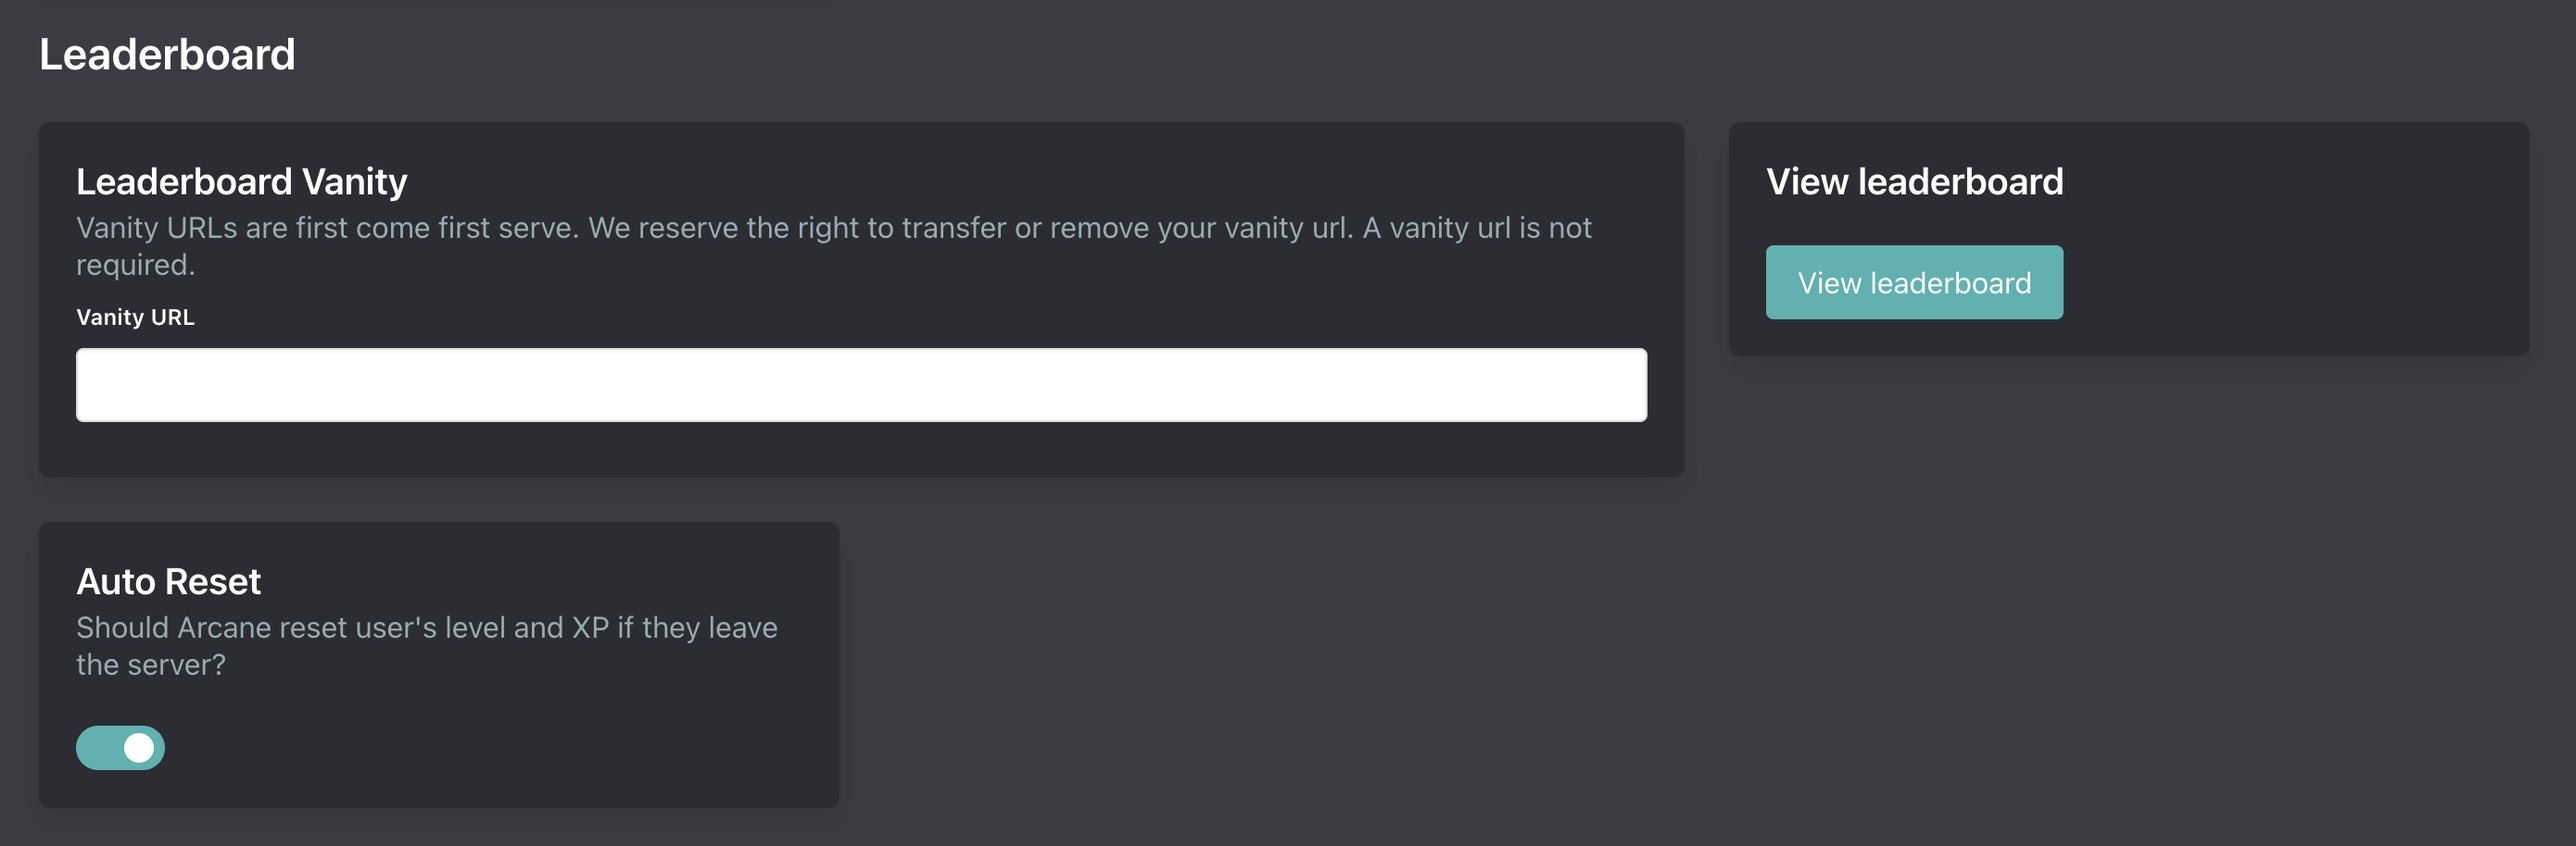
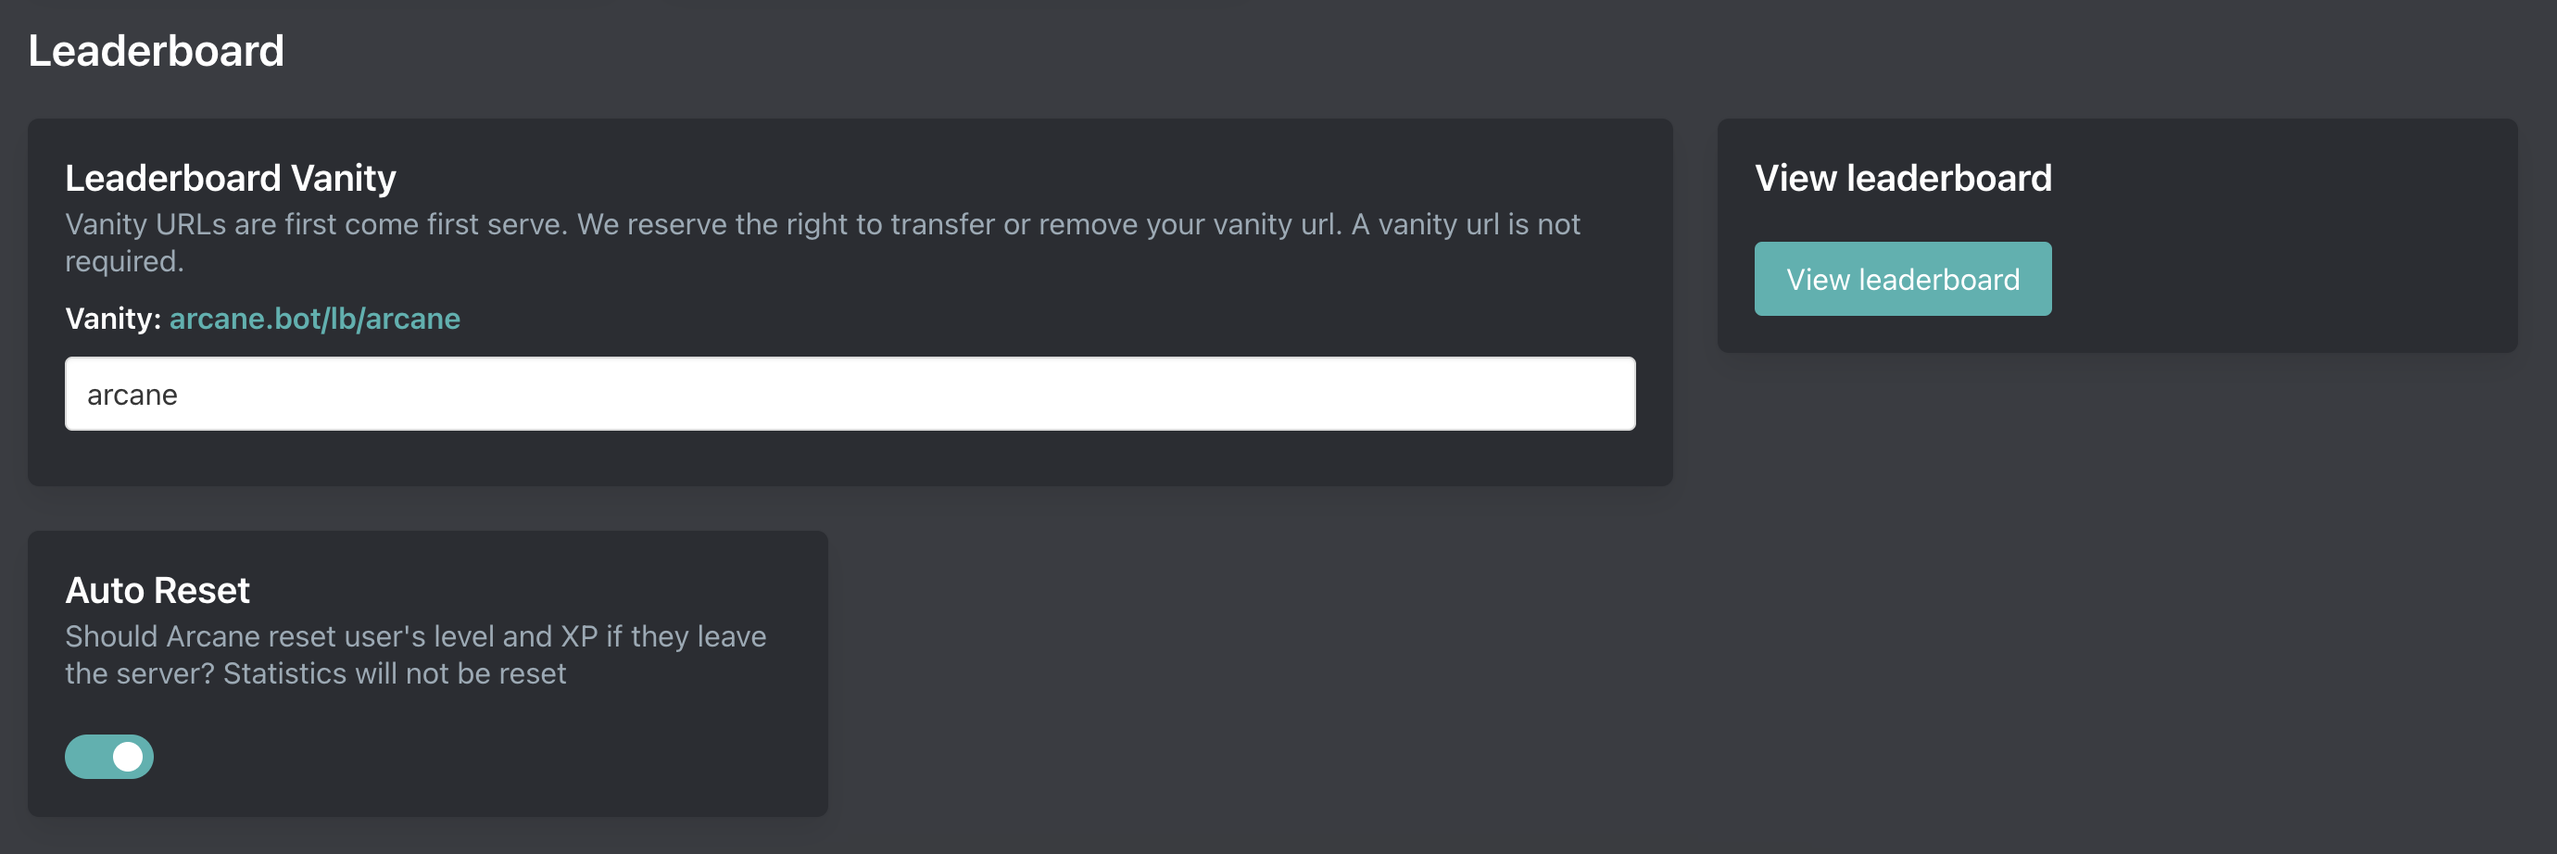
add xp-management settings, update faq, update xp management

diff --git a/src/plugins/leveling/setup/xp-management.md b/src/plugins/leveling/setup/xp-management.md
@@ -1,0 +1,23 @@
+---
+outline: deep
+---
+
+# XP Management
+
+::: danger DANGER
+XP Management settings can only be configured by the server owner.
+:::
+
+::: tip
+Setup is done on the [dashboard](../../../core/dashboard).
+:::
+
+![XP Management](../../../images/leveling/xp-management.png)
+
+## Disable /xp command
+
+If enabled, this will disable the `/xp` command. Only the server owner will be able to use the /xp command. The /xp command will appear for members with the administrator permission but they will be given an error when running the command.
+
+## Disable leaderboard reset
+
+If enabled, this will disable the ability to reset the leaderboard or individual member's levels/xp. This disables resetting level/xp with the `/xp` command and on the online leaderboard. Only the server owner will be able to reset levels/xp.

diff --git a/src/core/commands/list.md b/src/core/commands/list.md
@@ -32,7 +32,7 @@ If a command does not support message/prefix commands it will be marked with an 
 | - | - | - |
 | `/level` | Displays your or the specified member's level and XP progres | N/A  |
 | `/leaderboard` | Display the servers top 10 and top 100 members | N/A  |
-| `/xp`<sup>*</sup> | Add or modify a user's XP or level | Manage Server  |
+| [`/xp`](../../plugins/leveling/management.md)<sup>*</sup> | Add or modify a user's XP or level | [Manage Server](../../plugins/leveling/setup/xp-management.md)  |
 | `/boosters` | Display the list of XP role and channel boosters | N/A  |
 | `/rewards` | Display the list of role rewards | N/A |
 | `/card` | Manage your rank card settings | N/A |

diff --git a/src/plugins/leveling/management.md b/src/plugins/leveling/management.md
@@ -35,6 +35,16 @@ The `/xp` command is available for you to manage your members xp & level values.
 | `/xp reset server` | Reset the XP and level of everyone in the server |
 | `/xp reset member` | Reset the XP and level of a member |
 
+## Resetting statistics
+
+::: danger DANGER
+Resetting statistics CANNOT be undone
+:::
+
+By default, when resetting levels and xp, Arcane will not reset statistics (messages, reactions, voice time, etc). If you would like these to be reset you can toggle reset stats when running `/xp` or when on the online leaderboard.
+
+![Reset stats](../../images/leveling/reset-stats.png)
+
 ## Resetting members who have left
 
 ::: tip

diff --git a/src/frequently-asked-questions.md b/src/frequently-asked-questions.md
@@ -16,7 +16,7 @@ Arcane and Arcane-chan ✨ are the same bot but with a different name and avatar
 
 ## Roles aren't assigning
 
-Arcane needs to have the **Manage Roles** permission & be **above** the roles you want Arcane to be able to assign.
+Arcane needs to have the **Manage Roles** permission & be **above** the roles you want Arcane to be able to assign. Arcane will not assign elevated roles. (Roles which have the `Administrator` or `Manage Server` permission)
 
 <video controls="controls" src="/images/role-permissions.mp4" />
 
